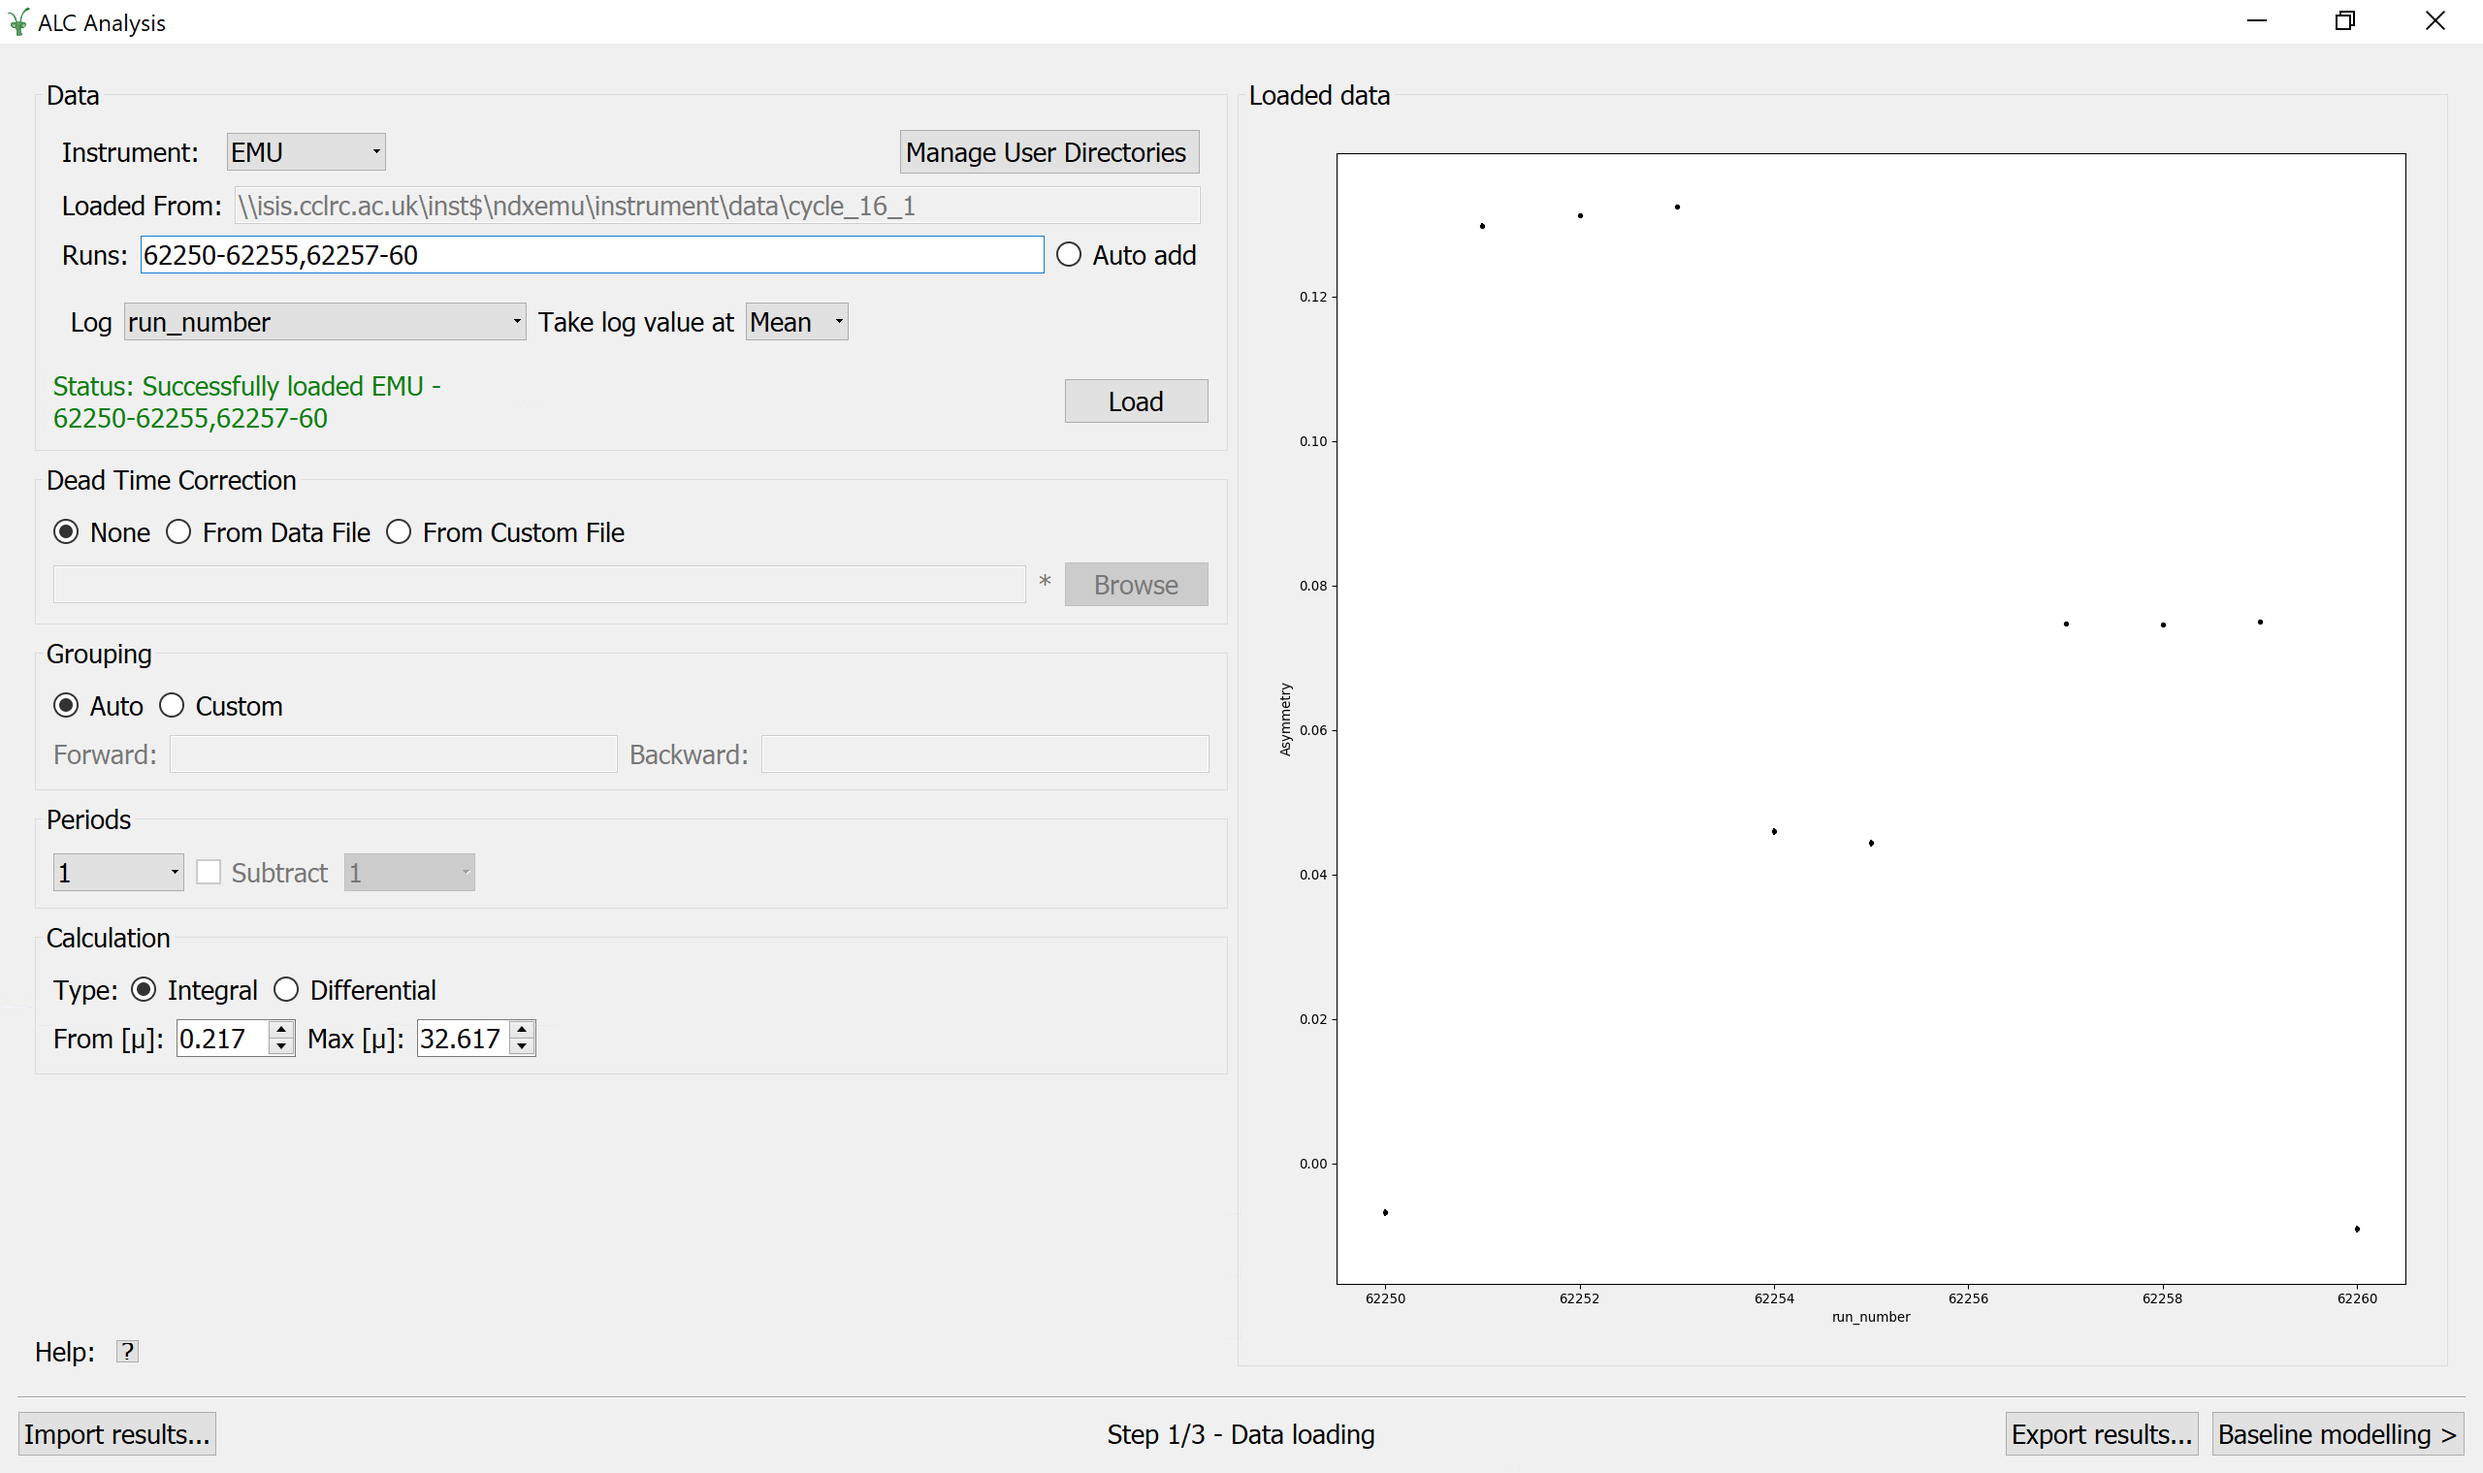
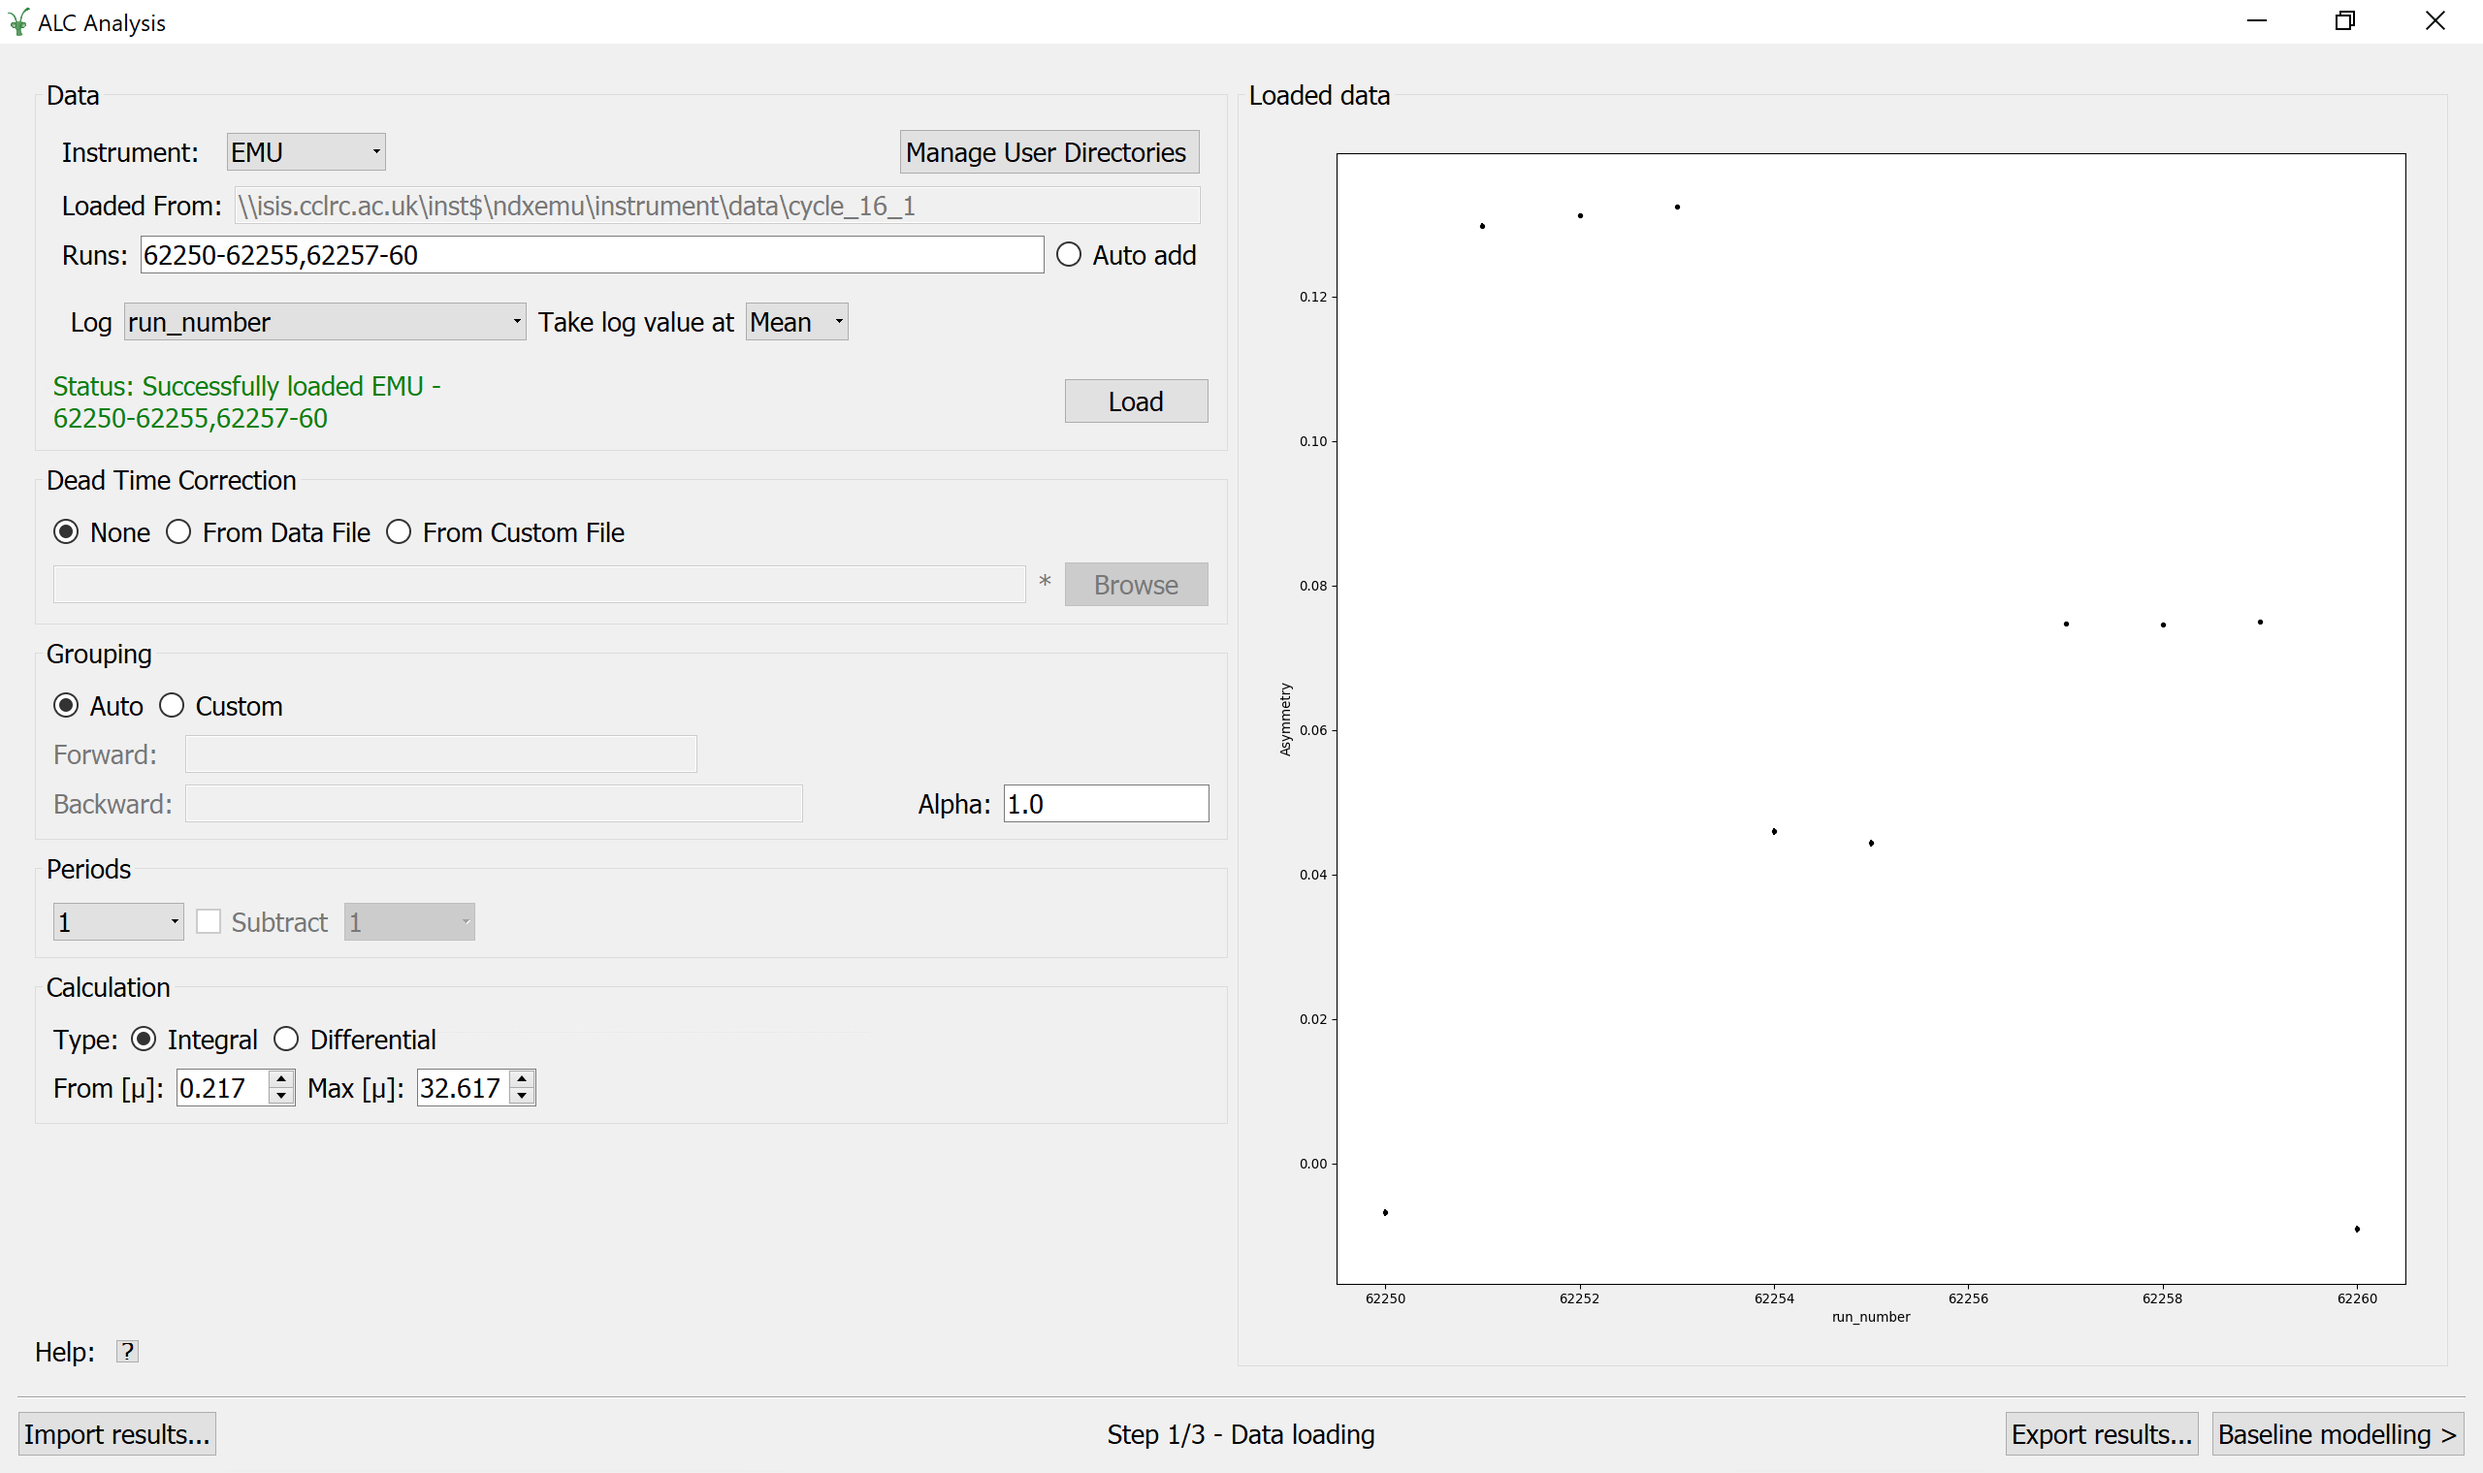
Re #29798 Add Alpha To ALC Interface
rebased to latest alc changes. updated image

Changed region(s): [[0.0, 0.526, 0.2188, 0.7426], [0.375, 0.526, 0.4375, 0.5569], [0.25, 0.4951, 0.3125, 0.526]]

diff --git a/qt/scientific_interfaces/Muon/ALCDataLoadingPresenter.cpp b/qt/scientific_interfaces/Muon/ALCDataLoadingPresenter.cpp
@@ -139,6 +139,10 @@ void ALCDataLoadingPresenter::handleLoadRequested() {
                               " -\n" + m_view->getRunsText(),
                           "green");
     m_view->enableRunsAutoAdd(true);
+
+    // If alpha empty, default used is 1 so update interface
+    if (m_view->getAlphaValue() == "1.0" && m_view->isAlphaEnabled())
+      m_view->setAlphaValue("1.0");
   } catch (const std::runtime_error &errorLoadFiles) {
     m_view->setLoadStatus("Error", "red");
     m_view->displayError(errorLoadFiles.what());
@@ -338,7 +342,7 @@ void ALCDataLoadingPresenter::updateAvailableInfo() {
   // If single period, enable alpha, otherwise disable
   if (numPeriods == 1) {
     m_view->enableAlpha(true);
-    m_view->setAlphaValue("1");
+    m_view->setAlphaValue("1.0");
     m_view->showAlphaMessage(false);
   } else {
     m_view->enableAlpha(false);

diff --git a/qt/scientific_interfaces/Muon/ALCDataLoadingView.cpp b/qt/scientific_interfaces/Muon/ALCDataLoadingView.cpp
@@ -74,6 +74,9 @@ void ALCDataLoadingView::initialize() {
   QValidator *validator = new QRegExpValidator(re, this);
   m_ui.runs->setTextValidator(validator);
 
+  // Alpha to only accept positive doubles
+  m_ui.alpha->setValidator(new QDoubleValidator(0, 99999, 10, this));
+
   m_ui.runs->doButtonOpt(MantidQt::API::FileFinderWidget::ButtonOpts::None);
 }
 
@@ -421,6 +424,10 @@ std::string ALCDataLoadingView::getRunsFirstRunText() const {
 void ALCDataLoadingView::enableAlpha(const bool alpha) {
   m_ui.alpha->setEnabled(alpha);
   m_ui.alphaLabel->setEnabled(alpha);
+}
+
+bool ALCDataLoadingView::isAlphaEnabled() const {
+  return m_ui.alpha->isEnabled();
 }
 
 void ALCDataLoadingView::setAlphaValue(const std::string &alpha) {

diff --git a/qt/scientific_interfaces/Muon/ALCDataLoadingView.h b/qt/scientific_interfaces/Muon/ALCDataLoadingView.h
@@ -81,6 +81,7 @@ public:
   void setRunsTextWithoutSearch(const std::string &text) override;
   void toggleRunsAutoAdd(const bool autoAdd) override;
   void enableAlpha(const bool alpha) override;
+  bool isAlphaEnabled() const override;
   void setAlphaValue(const std::string &alpha) override;
   std::string getAlphaValue() const override;
   void showAlphaMessage(const bool alpha) override;

diff --git a/qt/scientific_interfaces/test/ALCDataLoadingPresenterTest.h b/qt/scientific_interfaces/test/ALCDataLoadingPresenterTest.h
@@ -55,6 +55,7 @@ public:
   MOCK_CONST_METHOD0(getRunsText, std::string());
   MOCK_CONST_METHOD0(getRunsFirstRunText, std::string());
   MOCK_CONST_METHOD0(getAlphaValue, std::string());
+  MOCK_CONST_METHOD0(isAlphaEnabled, bool());
 
   MOCK_METHOD0(initialize, void());
   MOCK_METHOD2(setDataCurve, void(MatrixWorkspace_sptr workspace,

diff --git a/qt/scientific_interfaces/Muon/IALCDataLoadingView.h b/qt/scientific_interfaces/Muon/IALCDataLoadingView.h
@@ -85,6 +85,8 @@ public:
   /// Enable/disable alpha to be editable
   virtual void enableAlpha(const bool alpha) = 0;
 
+  virtual bool isAlphaEnabled() const = 0;
+
   /// Set value of alpha
   virtual void setAlphaValue(const std::string &alpha) = 0;
 
